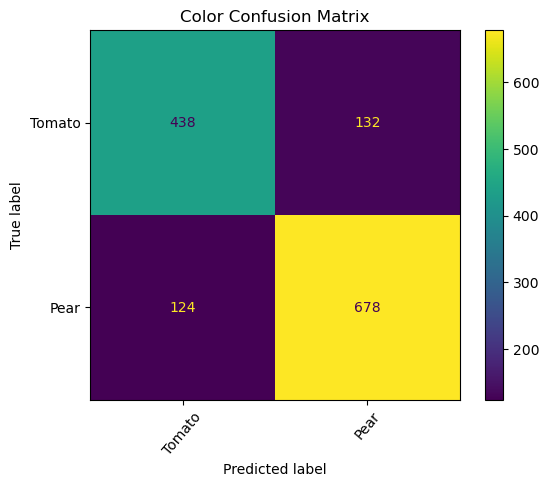
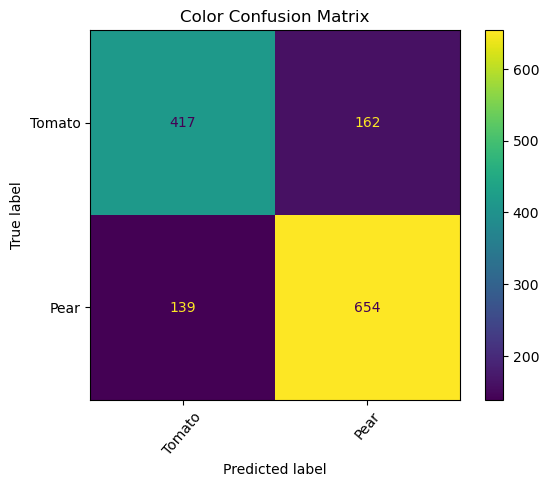
updates to readme

diff --git a/src/class_fruit_veggies_NB.py b/src/class_fruit_veggies_NB.py
@@ -105,12 +105,12 @@ if __name__ == '__main__':
     X, y, all_fru_veg = fru_veg_class.get_X_y_fv(X, y, all_fru_veg, grayscale=grayscale, edge=edge)
     X_train, X_test, y_train, y_test = train_test_split(X, y)
     # roc = fru_veg_class.roc_you_curve(X_train, X_test, y_train, y_test, grayscale=grayscale, edge=edge)        
-    # plot_conf_matrix = fru_veg_class.plot_conf_matrix(X_train, X_test, y_train, y_test, grayscale=grayscale, edge=edge)
-    rf_mod, report = fru_veg_class.random_forest(X_train, X_test, y_train, y_test, grayscale=grayscale, edge=edge)
-    print(report)
+    plot_conf_matrix = fru_veg_class.plot_conf_matrix(X_train, X_test, y_train, y_test, grayscale=grayscale, edge=edge)
+    # rf_mod, report = fru_veg_class.random_forest(X_train, X_test, y_train, y_test, grayscale=grayscale, edge=edge)
+    # print(report)
     # filename_rf = 'fv_app/fv_rf_model.sav'
     # pickle.dump(rf_mod, open(filename_rf, 'wb'))
-    # nb_mod, mod, report = fru_veg_class.naive_bayes(X_train, X_test, y_train, y_test, grayscale=grayscale, edge=edge)
-    # print(report)
+    nb_mod, report = fru_veg_class.naive_bayes(X_train, X_test, y_train, y_test, grayscale=grayscale, edge=edge)
+    print(report)
     # filename_nb = 'fv_app/fv_nb_model.sav'
     # pickle.dump(nb_mod, open(filename_nb, 'wb'))    

diff --git a/README.md b/README.md
@@ -23,23 +23,29 @@ our nutrition, which affects our health and wellness. It explains how food, drin
 several other things affect our bodies in negative and positive ways.
 This book is my main motivation for this capstone.
 
+“Optimum nutrition is the medicine of the future.” - Linus Pauling, two-time Nobel Prize winner
+
 # Data
 
-I was able to find a data set on kaggle named ‘Fruits 360’. The data set is comprised of
-90,483 100x100 ‘.jpgs’ of fruits and vegetables. 90,380 of those pictures are either a fruit or
+I was able to find a couple data sets on kaggle named ‘Fruits 360’ and 'Fruit Recognition'.
+The former data set is comprised of 90,483 100x100 ‘.jpgs’ of fruits and vegetables. 90,380 of those pictures are either a fruit or
 vegetable and 103 have multiple fruits or vegetables. The 90,380 images were split into Training and Testing Folders. The data set has 131 folders for each class of fruits
-and vegetables as different varieties of the same item were stored as belonging to
-different classes. There are 68 unique fruits and vegetables. I, also, built my own data set of each item and some of its nutrition facts, which I placed into a ‘.csv’ and called as a data frame in pandas. As part of my check of the data set I verified there were no broken nor fraudulent images.
+and vegetables as different varieties of the same item were stored as belonging to different classes. There are 68 unique fruits and vegetables. 
+The latter data set has 44,406 labelled fruit images. They are each 320×258 '.png'.
+I, also, built my own data set of each item and some of its nutrition facts, which I placed into a ‘.csv’ and called as a data frame in pandas.
+As part of my check of the data set I verified there were no broken nor fraudulent images.
 
 # Goals
 
 How successfully will a Naive Bayes model and a Convolution Neural Network train and test on a subset of all the images?
-Learn Nutrition Facts from the 68 fruits and vegetables in the entire data set.
+Learn Nutrition Facts from Pears and Tomatoes
+
+Update to this 09/23/2020: Will be adding more ML models and Recommender, as well as deploying on AWS. I will expand on the database, as well.
 
 # Closer Look
 
 I spent quite a while deciding if I would use the whole data set with all unique items, but settled on a binary approach. I was left with deciding fruits and vegetables or which 2 unique fruits or vegetables. I ultimately decided on the latter.
-I chose to combine the Training and Testing Folders for simplicity and settled on the 6810 images of Tomatoes and the 6726 images of Pears. with my goals in mind I started by taking a look at the images and for visualization I got the average images.
+I chose to combine the Training, Testing, and variety folders to their own unique folders, for simplicity. To start I've used a subset of Pears and Tomatoes from these two data sets. I settled on 2313 images of Tomatoes and 3175 images of Pears. With my goals in mind, I started by taking a look at the images and for visualization I got the average images. 
 
 Average Pear/Average Tomato:
 
@@ -65,7 +71,6 @@ KMeans was used to get an idea of how the pixels were clusterd based off of cent
 
 Pear Color KMean Cluster/Tomato Color KMean Cluster:
 
-
 | Pear Color KMean Cluster               |                Tomato Color KMean Cluster|
 |  --:                                           |                                              --: |
 | ![](images/Pear_color_kmeans_clusters.png) | ![](images/Tomato_color_kmeans_clusters.png) |
@@ -78,7 +83,7 @@ Edge Detection Pear/Tomato
 
 # Visualization
 
-Once I got an idea of the pixels I began to model my images using greyscale, color, and the edges. I resized the images from 100x100 to 32x32. Using Multinomial Naive Bayes I plotted a Confusion Matrix, ROC Curve, and the Classification Report.
+Once I got an idea of the pixels I began to model my images using greyscale, color, and the edges. I resized the images to 32x32. Using Multinomial Naive Bayes I plotted a Confusion Matrix, ROC Curve, and the Classification Report.
 
 Accuracy is the ratio of correctly predicted observations to the total observations. This is used with a even data set, for example, False Positives and False Negatives are almost same.
 
